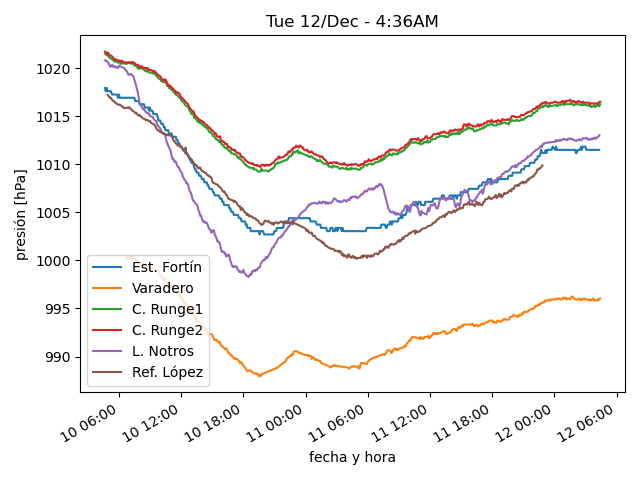
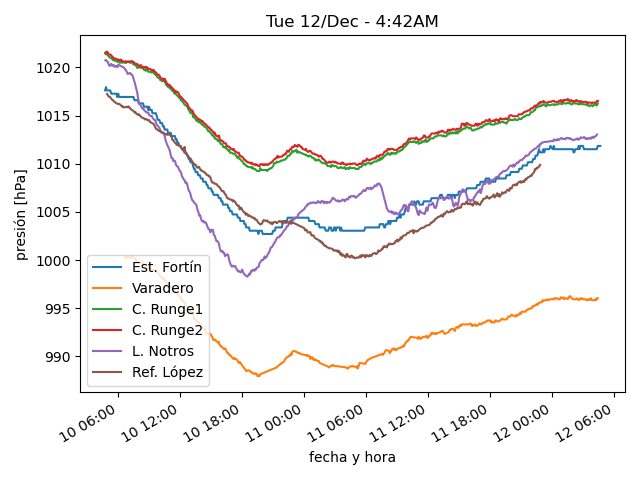
actualiza datos

diff --git a/estaciones/estacion1.html b/estaciones/estacion1.html
@@ -18,12 +18,12 @@
     </tr>
     <tr>
      <td class="stats_data">
-      4:18AM
+      4:38AM
      </td>
     </tr>
     <tr>
      <td class="stats_data">
-      9.1
+      8.9
      </td>
     </tr>
     <tr>
@@ -33,17 +33,17 @@
     </tr>
     <tr>
      <td class="stats_data">
-      72.0
+      73.0
      </td>
     </tr>
     <tr>
      <td class="stats_data">
-      1011.51
+      1011.85
      </td>
     </tr>
     <tr>
      <td class="stats_data">
-      8.8/15.3 SW
+      10.5/21.7 WSW
      </td>
     </tr>
     <tr>
